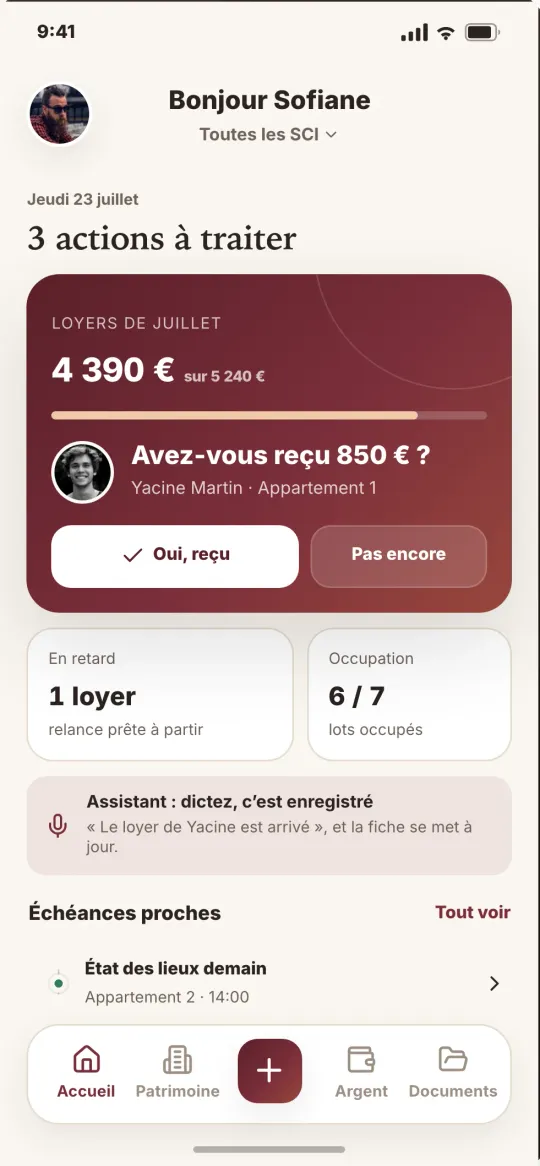
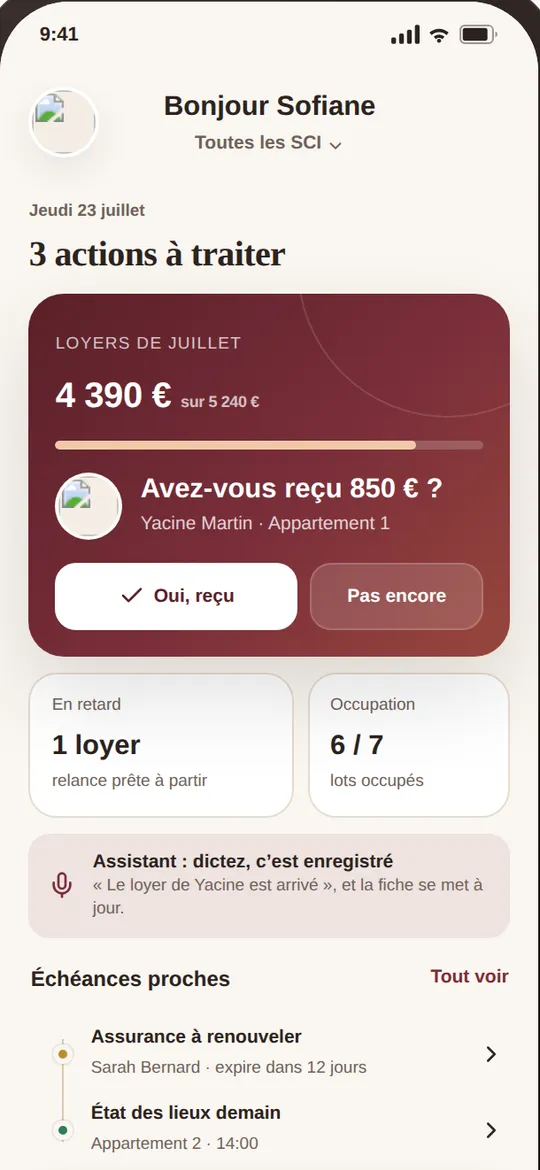
Téléphone du bloc Calories : vrai cadre d'iPhone, 17 écrans de maquettes, plus grand
Le cadre est redessiné aux proportions de l'iPhone 15 : coins à 14 % de la
largeur, bezel fin, îlot dynamique et boutons latéraux, le tout en
pourcentage pour que téléphone et ordinateur montrent le même objet. Il
passe à 330 px sur ordinateur et 250 px sur téléphone, et le nom de
l'application sous le cadre disparaît.

Les écrans viennent des pages /maquette/... du dépôt, capturés en
navigateur sans tête et ramenés au même format (ratio 393 × 852, barre de
statut iOS comprise, comme une capture réelle) : SmoothRide en ambiance
claire sur l'écran de promesse, Bailora sur le tableau de bord, puis un
écran par maquette (coaching, musique, immobilier, rencontre, artistes,
navigation, entraide animale, bagages, juridique, collaborations, VTC,
colocation, techniciens, logistique), Calorie en premier. Dix-sept écrans,
536 Ko en tout, le premier chargé tout de suite, les autres en différé.

Claude-Session: https://claude.ai/code/session_01AbTqSpnaB2s11UJcgGvk5A

diff --git a/src/TelephoneDefilant.jsx b/src/TelephoneDefilant.jsx
@@ -1,27 +1,37 @@
 import { useEffect, useState } from 'react'
 
-// Le téléphone du bloc « Une idée banale » : un seul cadre, et l'écran change
-// tout seul, un écran par application, toutes les 1,8 seconde. Pas de
-// défilement, un fondu : on passe d'une application à l'autre.
+// Le téléphone du bloc « Une idée banale » : un vrai cadre d'iPhone (îlot
+// dynamique, boutons latéraux, coins au bon rayon), et l'écran passe d'une
+// application à l'autre en fondu toutes les 1,8 seconde. Un écran par
+// application, le plus parlant de chacune, tous au même format que le
+// téléphone (ratio 393 × 852, comme une capture d'iPhone 15), barre de statut
+// comprise : chaque image a l'heure et les icônes, comme une capture réelle.
 //
-// ⚠ CE QUI PEUT Y FIGURER. Les CGV (article 10.6) n'autorisent à montrer que ce
-// qui est déjà public après mise en ligne : visuels de la fiche store ou du
-// site public du client. Calorie est déjà sur la page ; SmoothRide et Bailora
-// viennent de leurs sites publics. Une maquette de projet non publié n'entre
-// pas ici, même belle, sauf accord écrit du client.
-//
-// Les écrans sont servis sans coque, à 540 px de large (le cadre affiche 270 px
-// au plus, donc net sur les écrans haute densité), tous au même ratio.
+// Les écrans viennent des pages /maquette/... de ce dépôt (captures des
+// maquettes clients, sans nom affiché), de Calorie, et sont servis en WebP à
+// 540 × 1170 (le cadre affiche 330 px au plus, donc net en haute densité).
+// Le premier se charge tout de suite, les autres en différé.
 const ECRANS = [
-  { src: '/assets/images/ecrans/calorie-ecran.webp', app: 'Calorie', alt: 'Calorie, suivi du parcours alimentaire' },
-  { src: '/assets/images/ecrans/smoothride-onboarding.webp', app: 'SmoothRide', alt: 'SmoothRide, le même trajet sans les secousses' },
-  { src: '/assets/images/ecrans/bailora-accueil.webp', app: 'Bailora', alt: 'Bailora, accueil' },
-  { src: '/assets/images/ecrans/smoothride-carte.webp', app: 'SmoothRide', alt: 'SmoothRide, carte du trajet' },
-  { src: '/assets/images/ecrans/bailora-tableau-de-bord.webp', app: 'Bailora', alt: 'Bailora, tableau de bord' },
-  { src: '/assets/images/ecrans/smoothride-comparatif.webp', app: 'SmoothRide', alt: 'SmoothRide, comparatif des trajets' },
-  { src: '/assets/images/ecrans/bailora-loyers.webp', app: 'Bailora', alt: 'Bailora, suivi des loyers' },
+  { src: 'calorie.webp', alt: 'Calorie, suivi du parcours alimentaire' },
+  { src: 'smoothride-promesse.webp', alt: 'SmoothRide, écran de promesse' },
+  { src: 'kingfit-onboarding.webp', alt: 'Application de coaching, premier écran' },
+  { src: 'bailora-tableau-de-bord.webp', alt: 'Bailora, tableau de bord' },
+  { src: 'sonora-ouverture.webp', alt: 'Application musicale, écran d’ouverture' },
+  { src: 'immomatch-tableau-de-bord.webp', alt: 'Application immobilière, tableau de bord' },
+  { src: 'blush-match.webp', alt: 'Application de rencontre, écran de match' },
+  { src: 'aretha-tableau-de-bord.webp', alt: 'Application pour artistes, tableau de bord' },
+  { src: 'convoipilote-navigation.webp', alt: 'Application de navigation, vue conduite' },
+  { src: 'pet-solidarite-ouverture.webp', alt: 'Application d’entraide animale, ouverture' },
+  { src: 'bagsitter-garde.webp', alt: 'Application de garde de bagages, garde en cours' },
+  { src: 'juridik-ouverture.webp', alt: 'Application juridique, ouverture' },
+  { src: 'vietcollab-accueil.webp', alt: 'Application de collaborations, accueil' },
+  { src: 'guestride-course.webp', alt: 'Application de VTC, proposition de course' },
+  { src: 'colocool-tableau-de-bord.webp', alt: 'Application de colocation, tableau de bord' },
+  { src: 'pac-assist-onboarding.webp', alt: 'Application pour techniciens, premier écran' },
+  { src: 'moovye-scanner.webp', alt: 'Application logistique, scan d’un bagage' },
 ]
 
+const DOSSIER = '/assets/images/ecrans/'
 const INTERVALLE_MS = 1800
 
 export default function TelephoneDefilant() {
@@ -35,25 +45,27 @@ export default function TelephoneDefilant() {
   }, [])
 
   return (
-    <div className="flex flex-col items-center gap-3">
-      <div className="tel-cadre w-[195px] md:w-[270px]">
-        <div className="tel-ecran">
-          {ECRANS.map((e, i) => (
-            <img
-              key={e.src}
-              src={e.src}
-              alt={i === index ? e.alt : ''}
-              width="540"
-              height="1161"
-              loading={i === 0 ? 'eager' : 'lazy'}
-              decoding="async"
-              aria-hidden={i !== index}
-              className={i === index ? 'tel-visible' : ''}
-            />
-          ))}
-        </div>
+    <div className="tel-cadre w-[250px] md:w-[330px]" role="img" aria-label="Écrans d'applications conçues par Noé Calmes">
+      <span className="tel-bouton tel-bouton-silence" aria-hidden="true" />
+      <span className="tel-bouton tel-bouton-vol-haut" aria-hidden="true" />
+      <span className="tel-bouton tel-bouton-vol-bas" aria-hidden="true" />
+      <span className="tel-bouton tel-bouton-marche" aria-hidden="true" />
+      <div className="tel-ecran">
+        {ECRANS.map((e, i) => (
+          <img
+            key={e.src}
+            src={DOSSIER + e.src}
+            alt={i === index ? e.alt : ''}
+            width="540"
+            height="1170"
+            loading={i === 0 ? 'eager' : 'lazy'}
+            decoding="async"
+            aria-hidden={i !== index}
+            className={i === index ? 'tel-visible' : ''}
+          />
+        ))}
+        <span className="tel-ilot" aria-hidden="true" />
       </div>
-      <p className="text-grey text-[0.8rem] font-medium" aria-live="polite">{ECRANS[index].app}</p>
     </div>
   )
 }

diff --git a/src/index.css b/src/index.css
@@ -549,27 +549,31 @@ details summary {
 }
 
 /* ─── Téléphone à écran changeant (bloc « Une idée banale ») ─────────────────
-   Le cadre est en CSS, les écrans sont des captures sans coque, empilées ;
-   un seul est visible, le passage se fait en fondu. */
+   Un cadre d'iPhone en CSS, proportions de l'iPhone 15 : coins à 14 % de la
+   largeur, bezel fin, îlot dynamique, boutons latéraux. Les écrans sont des
+   captures au ratio 393 × 852, empilées ; un seul est visible, le passage se
+   fait en fondu. Tout est en pourcentage de la largeur pour que téléphone et
+   ordinateur donnent le même objet, à l'échelle près. */
 .tel-cadre {
-  aspect-ratio: 464 / 998;
-  padding: 9px;
-  border-radius: 44px;
-  background: #17171b;
+  position: relative;
+  aspect-ratio: 393 / 852;
+  padding: 2.8%;
+  border-radius: 14.5% / 6.7%;
+  background: #0b0b0d;
   box-shadow:
-    inset 0 0 0 2px #3b3b42,
-    0 30px 60px -28px rgba(3, 52, 117, 0.5);
+    inset 0 0 0 1.5px #5a5a60,
+    inset 0 0 0 3px #1c1c20,
+    0 40px 70px -32px rgba(3, 52, 117, 0.55),
+    0 12px 24px -16px rgba(0, 0, 0, 0.5);
 }
-@media (min-width: 768px) { .tel-cadre { padding: 11px; border-radius: 54px; } }
 .tel-ecran {
   position: relative;
   width: 100%;
   height: 100%;
   overflow: hidden;
-  border-radius: 36px;
+  border-radius: 12.5% / 5.8%;
   background: #000;
 }
-@media (min-width: 768px) { .tel-ecran { border-radius: 44px; } }
 .tel-ecran img {
   position: absolute;
   inset: 0;
@@ -580,3 +584,26 @@ details summary {
   transition: opacity 0.45s ease;
 }
 .tel-ecran img.tel-visible { opacity: 1; }
+/* L'îlot dynamique, posé par-dessus la barre de statut (l'heure est à gauche,
+   les icônes à droite, le centre est libre sur toutes les captures). */
+.tel-ilot {
+  position: absolute;
+  top: 2.6%;
+  left: 50%;
+  transform: translateX(-50%);
+  width: 31%;
+  height: 4.1%;
+  border-radius: 999px;
+  background: #000;
+}
+/* Boutons latéraux : silence et volume à gauche, marche à droite. */
+.tel-bouton {
+  position: absolute;
+  width: 1.3%;
+  border-radius: 2px;
+  background: #2a2a2e;
+}
+.tel-bouton-silence { left: -1.3%; top: 17%; height: 3.6%; }
+.tel-bouton-vol-haut { left: -1.3%; top: 24.5%; height: 6.8%; }
+.tel-bouton-vol-bas { left: -1.3%; top: 33%; height: 6.8%; }
+.tel-bouton-marche { right: -1.3%; top: 27%; height: 10.5%; }
